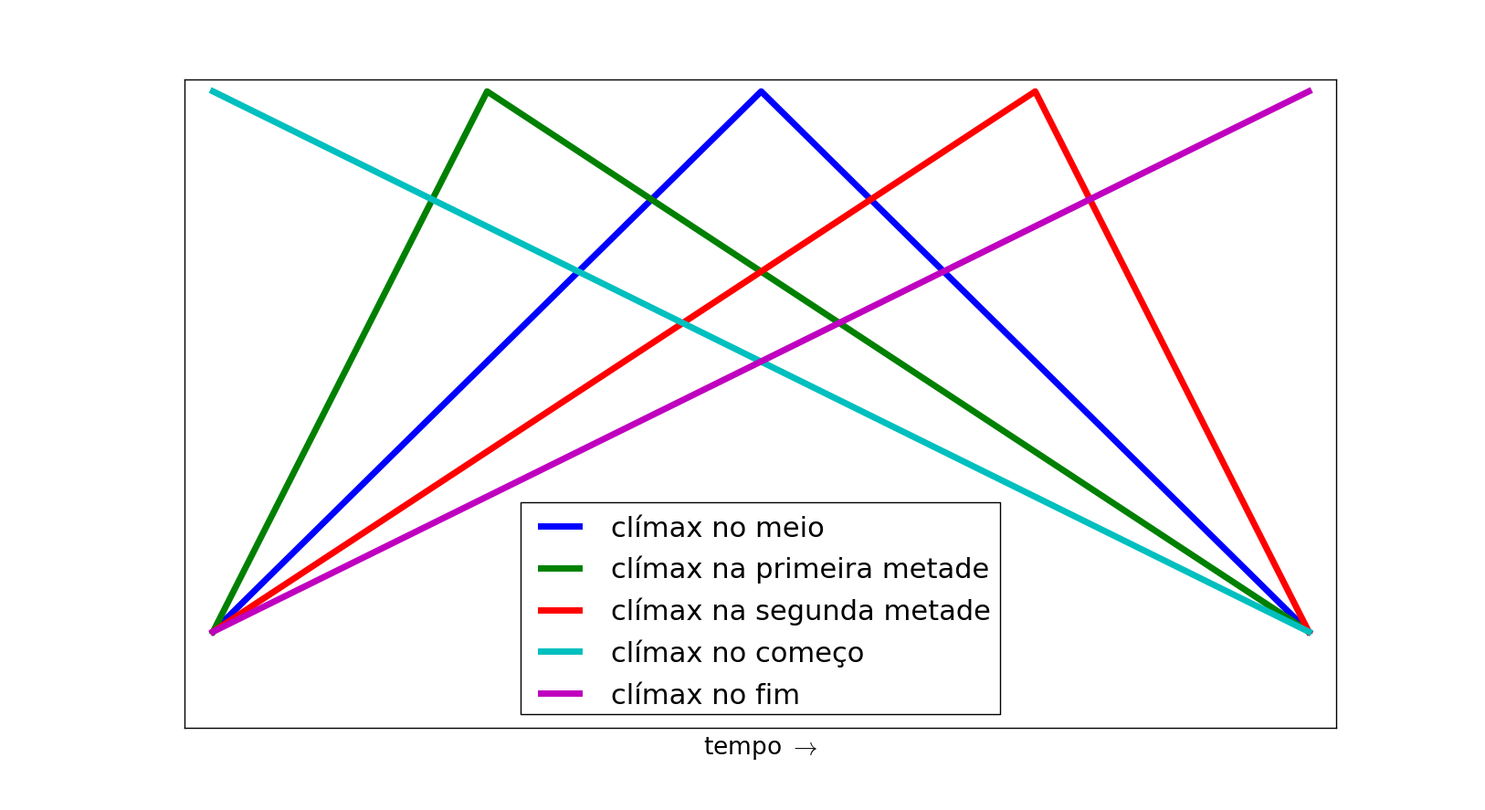
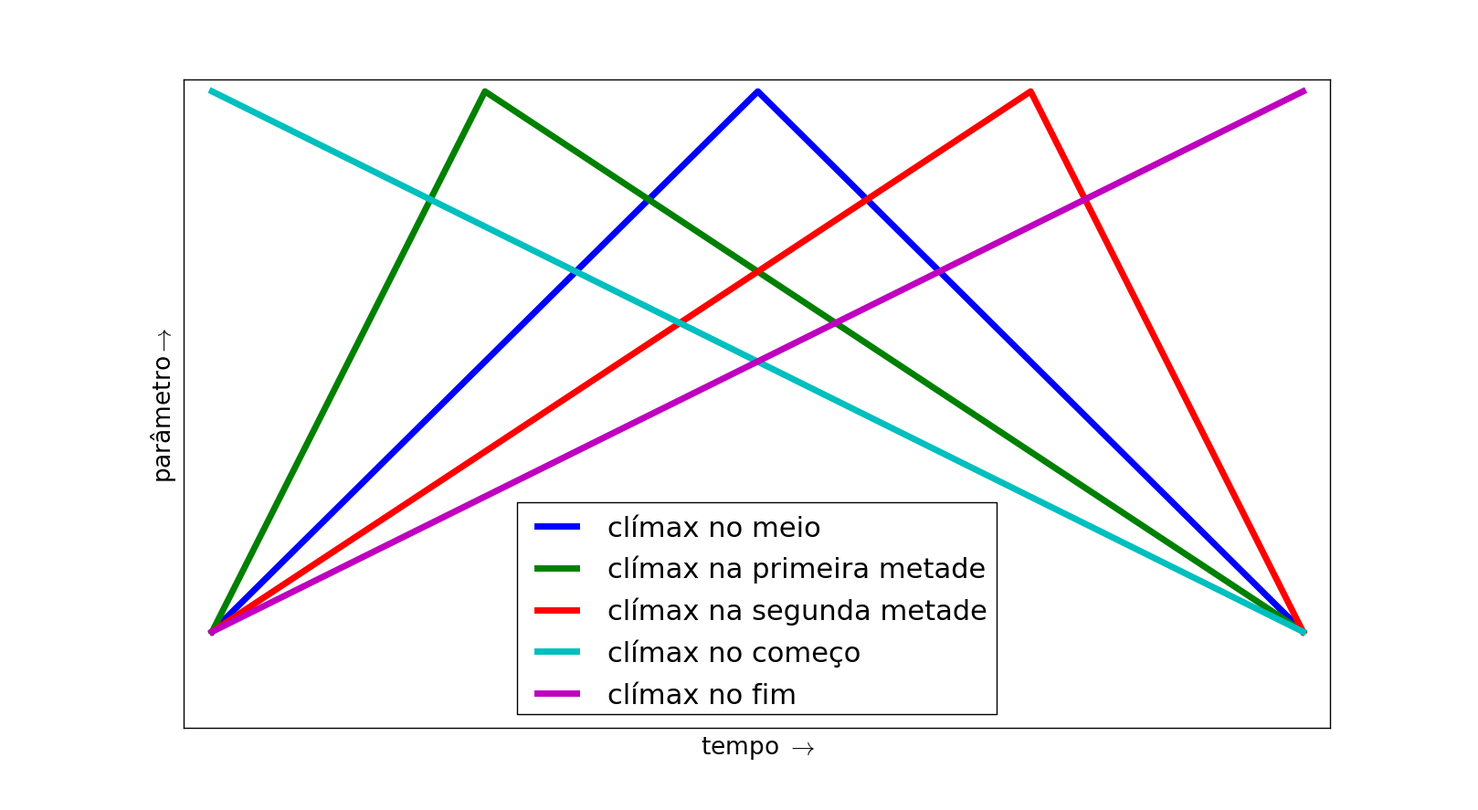
adiantada dissertacao ateh estruts ciclicas

diff --git a/devEresultados.tex b/devEresultados.tex
@@ -1501,7 +1501,7 @@ Em proporções de $\varepsilon=2^{\frac{1}{12}}$ entre as frequências das nota
 As consonâncias perfeitas são os uníssonos, as quintas e as oitavas justas (J). As consonâncias imperfeitas são
 as terças e as sextas maiores (M) e menores (m). As dissonâncias fortes são as segundas menores e sétimas maiores. As dissonâncias
 brandas são as segundas maiores e as sétimas menores. O primeiro caso especial consite na quarta justa, que é consonante perfeita
-se considerada uma inversão da quinta justa, caso contrário pode ser considerada uma dissonância ou uma consonância imperfeita. O segundo caso especial é o trítono (4aum, 5dim, tri). Este é consonante em algumas culturas, já para a música tonal, o trítono indica dominante e busca sua resolução em uma terça ou sexta e, por esta instabilidade, é considerado intervalo dissonante.}
+se considerada uma inversão da quinta justa, caso contrário pode ser considerada uma dissonância ou uma consonância imperfeita. O segundo caso especial é o trítono (4aum, 5dim, tri). Este é consonante em algumas culturas. Já para a música tonal, o trítono indica dominante e busca sua resolução em uma terça ou sexta e, por esta instabilidade, é considerado intervalo dissonante.}
 \begin{tabular}{| c | c | c | }\hline
     \multicolumn{3}{|c|}{\bf consonâncias}  \\\hline
    & notação tradicional & número de semitons \\
@@ -1521,7 +1521,7 @@ se considerada uma inversão da quinta justa, caso contrário pode ser considera
 
 A nomenclatura, com base em imposições e conveniências do sistema tonal, e de aspectos práticos da manipulação de notas, pode ser especificada assim:\cite{Roederer,Wisnick}
 \begin{itemize}
-        \item Intervalos por número de grados entre as notas: primeira (uníssono), segunda, terça, quarta, quinta, sexta, sétima, oitava. Nona, décima, décima primeira, etc, são os intervalos compostos, de uma ou mais oitavas + um intervalo dentro da oitava, que caracteriza o intervalo composto. São representados pelos dígitos numéricos: 1, 3, 5 é um uníssono, uma terça, e uma quinta.
+        \item Intervalos por número de grados entre as notas: primeira (uníssono), segunda, terça, quarta, quinta, sexta, sétima, oitava. Nona, décima, décima primeira, etc, são os intervalos compostos, de uma ou mais oitavas + um intervalo dentro da oitava, que caracteriza o intervalo composto. Os intervalos são representados pelos dígitos numéricos, e.g. 1, 3, 5 é um uníssono, uma terça e uma quinta.
         \item Qualidades de cada intervalo: as consonâncias perfeitas - i.e. uníssono, quarta, quinta e oitava - são 'justas'. As consonâncias imperfeitas - i.e. terças e sextas - e as dissonâncias - i.e. segundas e sétimas - podem ser maiores ou menores. Excessão para o trítono.
         \item A quarta justa é tida como consonante perfeita ou dissonante de acordo com o contexto e arcabouço teórico. Como regra geral, pode ser considerada consonante salvo casos em que é usada de passagem para uma quinta ou terça como resolução.
         \item O trítono é dissonante na música ocidental por caracterizar a "dominante" no sistema tonal (veja abaixo na subseção~\ref{subsec:harmonia}) e representar instabilidade. Algumas culturas entoam o intervalo como consonante.
@@ -1531,19 +1531,19 @@ A nomenclatura, com base em imposições e conveniências do sistema tonal, e de
         \item Um intervalo aumentado, acrescido de um semitom, resulta em um intervalo 'mais que aumentado' e um intervalo diminuto, descrescido de um semitom, resulta em um intervalo 'mais que diminuto'.
         \item Caso as notas soem simultaneamente, o intervalo é harmônico.
         \item Caso as notas soem em sequência no tempo, o intervalo é melódico. A ordem das notas, primeiro a nota mais grave ou a mais aguda, resulta em um intervalo ascendente ou descendente, respectivamente. 
-        \item Passando a nota mais grave para a oitava acima, ou a nota mais aguda uma oitava para baixo, o intervalo é invertido. Um intervalo, somado à sua inversão, resulta 9 (7m inverte para 2M: $7m+2M=9-$). Um intervalo maior invertido resulta em um intervalo menor e vice-versa. Um intervalo aumentado invertido resulta diminuto e vice-versa, assim como o mais que aumentado resulta em mais que diminuto e vice-versa. Um intervalo justo invertido resulta igualmente justo.
-        \item Um intervalo maior que a oitava é dito 'intervalo composto' e é classificado como o intervalo entre as mesmas notas, mas na mesma oitava. São também especificados por 7 acrescido deste intervalo: 11J é uma oitava mais uma quarta (7+4J==11J), 9M é uma oitava mais uma segunda (7+2M=9M).
+        \item Passada a nota mais grave para a oitava acima, ou a nota mais aguda uma oitava para baixo, o intervalo é invertido. Um intervalo, somado à sua inversão, resulta 9 (7m inverte para 2M: $7m+2M=9-$). Um intervalo maior invertido resulta em um intervalo menor e vice-versa. Um intervalo aumentado invertido resulta diminuto e vice-versa, assim como o mais que aumentado resulta em mais que diminuto e vice-versa. Um intervalo justo invertido resulta igualmente justo.
+        \item Um intervalo maior que a oitava é dito 'intervalo composto' e é classificado como o intervalo entre as mesmas notas, mas na mesma oitava. São também especificados por 7 acrescido deste intervalo: 11J é uma oitava mais uma quarta (7+4J==11J), 9M é uma oitava mais uma segunda maior (7+2M=9M).
 \end{itemize}
 
-Os intervalos aumentados/diminutos e mais que aumentados/diminutos são consequências do sistema tonal. Os graus da escala (veja abaixo na subseção~\ref{subsec:escalas}) são realmente notas diferentes, com funções e usos específicos. Assim, em uma escala de dó bemol maior, a tônica - primeiro grau - é dó bemol, não si, e a sensível - sétimo grau - é si bemol, não lá sustenido ou dó duplo bemol. De forma semelhante, o segundo grau de uma escala pode estar a um semitom do primeiro grau, assim como a sensível (sétimo grau a um semitom ascendente do primeiro), momento no qual há uma terça diminuta entre os dois semitons do sétimo e segundo grau da escala pois o primeiro grau está entre os dois graus próximos a ele: segundo e sensível.\cite{Lacerda}
+Os intervalos aumentados/diminutos e mais que aumentados/diminutos são consequências do sistema tonal. Os graus da escala (veja abaixo na subseção~\ref{subsec:escalas}) são realmente notas diferentes, com funções e usos específicos. Assim, em uma escala de dó bemol maior, a tônica - primeiro grau - é dó bemol, não si, e a sensível - sétimo grau - é si bemol, não lá sustenido ou dó duplo bemol. De forma semelhante, o segundo grau de uma escala pode estar a um semitom do primeiro grau, assim como a sensível (sétimo grau a um semitom ascendente do primeiro grau), momento no qual há uma terça diminuta entre os dois semitons do sétimo e segundo grau da escala pois o primeiro grau está entre os dois graus próximos a ele: segundo e sensível.\cite{Lacerda}
 
 Esta descrição resume a teoria tradicional dos intervalos musicais.\cite{Lacerda} A montagem \emph{Intervalos entre alturas} explora estes intervalos de formas isoladas e diversas. O código está no Apêndice~\ref{ap:intervalos} e disponível online com a \emph{toolbox} \massa.\cite{MASSA}
 
 
 \subsubsection{Escalas}\label{subsec:escalas}
 Uma escala é um conjunto ordenado de alturas. Usualmente, as escalas se repetem
-a cada oitava. A sequências ascendente com todas as notas da divisão da oitava em 12 intervalos iguais
-separados pela razão $\varepsilon=2^{\frac{1}{12}}$ é a escala cromática de temperamento igual. Há 5 divisões perfeitamente simétricas da oitava dentro da escala cromática. Estas divisões são consideradas
+a cada oitava. A sequência ascendente com todas as notas da divisão da oitava em 12 intervalos iguais,
+separados pela razão $\varepsilon=2^{\frac{1}{12}}$, é a escala cromática de temperamento por igual. Há 5 divisões perfeitamente simétricas da oitava dentro da escala cromática. Estas divisões são consideradas
 escalas pelos usos fáceis e peculiares que disso provém. Como inteiros aos quais $\varepsilon=2^{\frac{1}{12}}$ é elevado
 para multiplicar $f_0$, as escalas são:
 
@@ -1560,7 +1560,7 @@ para multiplicar $f_0$, as escalas são:
 Assim, a terceira nota da escala em tons inteiros com $f_0=200Hz$
 é $f_3=\varepsilon^{e_3^t} . f_0 = 2^{\frac{6}{12}} . 200 \approxeq 282.843 Hz$. Estas
 'escalas' ou padrões, geram estruturas estáveis pelas simetrias internas, e podem ser
-repetidas de forma eficiente e sustentada. Abaixo, na seção~\ref{estCic}. A montagem \emph{Cristais} expõe cada uma destas escalas tanto melódica quanto harmonicamente e seu código está no Apêndice~\ref{ap:cristais}. Como parte da \massa, este código é disponibilizado online.
+repetidas de forma eficiente e sustentada. Abaixo, na seção~\ref{estCic}, será retomado o assunto das simetrias. A montagem \emph{Cristais} expõe cada uma destas escalas tanto melódica quanto harmonicamente e seu código está no Apêndice~\ref{ap:cristais}. Como parte da \massa, este código é disponibilizado online.
 
 As escalas diatônicas:
 
@@ -1606,7 +1606,7 @@ A escala menor possui duas formas adicionais, melódica e harmônica:
 \end{split}
 \end{equation}
 
-O traçado ascendente e descendente da escala menor melódica é necessário para a presença da sensível (sétimo e último grau separado por um semitom da oitava e realça a polarização na tônica) no trajeto ascendente, o que não é necessário quando descende, retomando a forma natural. Já a escala harmônica apresenta a sensível, mas não evita o intervalo de segunda aumentada entre o sexto e sétimo graus, pois não precisa contemplar trajetória melódica, apenas apresentar a sensível tão cara ao sistema tonal (a sensível tende à tônica, afirmando-a).\cite{Harmonia}
+O traçado ascendente e descendente da escala menor melódica é necessário para a presença da sensível (sétimo e último grau, separado por um semitom da oitava, realça a polarização na tônica) no trajeto ascendente, o que não é necessário quando descende, retomando a forma natural. Já a escala harmônica apresenta a sensível, mas não evita o intervalo de segunda aumentada entre o sexto e sétimo graus, pois não precisa contemplar trajetória melódica, apenas apresentar a sensível tão cara ao sistema tonal (a sensível tende à tônica, afirmando-a).\cite{Harmonia}
 Outras escalas podem ser representadas da mesma forma, como as pentatônicas e os modos de transposição limitados de Messiaen.\cite{Messiaen}
 
 \subsubsection{Acordes}\label{subsec:acordes}
@@ -1632,7 +1632,7 @@ Orientações gerais são:
     \item Uma quinta constitui uma fundamental confirmada pelo intervalo.
     \item A terça maior ou menor aponta a qualidade maior ou menor do acorde.
     \item Todo trítono, especialmente se formado entre uma terça maior e uma sétima menor, tende a resolver em uma terça ou uma sexta.
-    \item Na repetição, a ordem de preferência é: a fundamental, a quinta, a terça e a sétima.
+    \item Evita-se a duplicação de nota. Na necessidade de duplicação, a ordem de preferência é: a fundamental, a quinta, a terça e a sétima.
     \item Pode-se formar acordes com notas diferentes das triádicas, especialmente se dentro de alguma lógica recorrente ou encadeamento musical que justifique as notas diferentes.
     \item Acordes formados por sucessões de intervalos diferentes da terças, como as quartas ou as segundas, são recorrentes dentre composições de tonalismo avançado ou experimentais.
     \item A repetição de sucessões de acordes (ou suas características) fixa uma trajetória pela recorrência e permite a introdução de formações exóticas sem que haja incoerência.
@@ -1641,7 +1641,7 @@ Orientações gerais são:
 
 \subsection{Harmonias atonal, tonal, expansão e modulação}\label{subsec:harmonia}
 \subsubsection{Harmonia atonal}
-Omitir os encadeamentos básicos do sistema tonal é a chave para a obtenção de 
+A omissão dos encadeamentos básicos do sistema tonal é chave para a obtenção de 
 harmonias modal e atonal. No caso desta ausência de estruturas tonais mínimas,
 se as notas coincidirem com alguma escala diatônica (veja as equações ~\ref{eq:escalas})
 ou forem em número pequeno, pode-se dizer que a
@@ -1649,7 +1649,7 @@ harmonia é modal. Caso encadeamentos tonais básicos estejam ausentes, as notas
 com alguma das escalas diatônicas e forem diversas e dissonantes (com relação às outras notas) o suficiente para evitar redução por
 polarizações, a harmonia é atonal.
 Nesta classificação, a harmonia modal não é tonal e não é atonal.
-A harmonia modal está reduzida à incidência de notas dentro de escalas diatônicas.
+A harmonia modal está reduzida à incidência de notas dentro de escalas diatônicas (ou simplificações) e à ausência de estruturas tonais.
 Pode-se perceber, pelo conceito, que a harmonia atonal é difícil de ser realizada.\cite{harmEXT}
 
 De fato, as técnicas de música atonal
@@ -1662,9 +1662,9 @@ A utilização de
 intervalos dissonantes, especialmente trítonos sem resoluções, nonas, segundas e sétimas, reforça
 a ausência de tonalidade. Neste contexto, para criação da peça, pode-se:
 \begin{itemize}
-    \item Repetir notas, como artifício de sua incidência anterior, não adiciona informação relevante.
-    \item Soar notas adjacentes ao mesmo tempo, em bloco.
-    \item Apresentar durações livremente, desde que respeitada ordem de aparição das notas.
+    \item Repetir notas. Ao considerar a repetição imediata um prolongamento da incidência anterior, notas iguais, sem outras notas entre elas, não adicionam informação relevante.
+    \item Soar notas adjacentes ao mesmo tempo, formando intervalos harmônicos e acordes.
+    \item Apresentar durações livremente, desde que respeitada a ordem de aparição das notas.
     \item Para variação, além dos recursos de ampliação, transposição e translação, são usados o inverso, o retrógrado e o retrógrado do inverso. Veja nas subseções~\ref{subsec:motivos} e~\ref{subsec:usosmusicais3} para maiores detalhes.
     \item Variações de intrumentação, articulação, espacialização e outras possibilidades de apresentação da estrutura de notas.
 \end{itemize}
@@ -1679,25 +1679,25 @@ propositais entre técnicas tonais e atonais.
 No século XX, músicas rítmicas
 e com ênfase em sonoridades/timbres ampliaram 
 as concepções de tonalidade e harmonia. Ainda assim, a harmonia tonal tem forte presença
-nas vertentes artísticas e comerciais. O próprio dodecafonismo considera-se de natureza
-tonal pois consiste na negação de suas características de polarização.
+nas vertentes artísticas e comerciais. Considera-se o próprio dodecafonismo de natureza
+tonal pois consiste na negação das características tonais de polarização.
 
 Na música tonal ou modal, acordes, como os listados nas equações~\ref{triades}, constituídos com a fundamental em cada
-grau de escalas especificadas nas equações~\ref{eq:escalas}, formam os pilares do campo harmônico.
+grau de uma escala, como das equações~\ref{eq:escalas}, formam os pilares do campo harmônico.
 A observação de progressões incidentes de acordes e regras para encadeamentos é o objeto de estudo da harmonia musical.
 Mesmo uma melodia monofônica gera campos harmônicos e pode-se observar acordes sugeridos por cada passagem.
 
 
 
 Na 'harmonia tonal tradicional',
-a escala pode ter como tônica (primeiro grau da escala) qualquer nota e pode ser maior (com as mesmas notas do modo jônico) ou menor (as notas do eólico constituem a escala "menor natural" e esta possui versões harmônica e melódica, veja a equação~\ref{eq:escalasMenores}. A escala escolhida é
+a escala pode ter como tônica (primeiro grau da escala) qualquer nota e pode ser maior (com as mesmas notas do modo jônico) ou menor (as notas do eólico constituem a escala "menor natural" e esta possui versões harmônica e melódica, veja a equação~\ref{eq:escalasMenores}). A escala escolhida é
 base para tríades, cada uma com a fundamental em um grau 
 da escala: $\hat{1},\hat{2},\hat{3},\hat{4},\hat{5},\hat{6},\hat{7}$. Para a formação do acorde, são consideradas a terceira nota e a quinta nota acima da fundamental, considerando a própria nota como a primeira e utilizando as notas da escala.
 Pode-se anotar $\hat{1},\hat{3},\hat{5}$ para o acorde do primeiro grau, formado pelo primeiro grau da escala e central para uma música tonal. Secundários são os acordes do quinto grau $\hat{5},\hat{7},\hat{2}$ ($\hat{7}$ sustenido no caso da escala menor) e do quarto grau $\hat{4},\hat{6},\hat{1}$. Depois são considerados os outros graus. A harmonia tradicional consiste em convenções e técnicas estilísticas de encadeamento destes acordes, formados em cada grau da escala.\cite{Harmonia}
 
 A 'harmonia funcional' atribui funções a estes três acordes centrais e busca compreender seus usos através destas funções. O acorde formado sobre o primeiro grau é o acorde de tônica (T ou t se tônica maior ou menor) e tem a função de manter um centro, um "chão" na música. O acorde formado sobre o quinto grau é a dominante (D, a dominante é sempre maior) e tem a função de tender à tônica, direcionar a música para ela. A tríade formada sobre o quarto grau é a subdominante (S ou s se subdominante maior ou menor) e tem a função de distanciar a música da tônica. O sistema se baseia em afirmar a tônica através de encadeamentos tônica-dominante-tônica expandidos com outros acordes das formas mais diversas.
 
-A estes três acordes, são associadas as outras tríades. Na escala maior, a associada relativa (tônica relativa Tr, subdominante relativa Sr e dominante relativa Dr) é a tríade formada uma terça abaixo e a associada anti-relativa (tônica anti-relativa Ta, subdominante anti-relativa Sa e a dominante anti-relativa Da) é a tríade formada na terça acima. Na escala menor ocorre o mesmo, mas a tríade a uma terça abaixo é chamada anti-relativa (tA, sA) e a tríade a uma terça acima é chamada de relativa (tR, sR). As exatas funções e efeitos musicais destes acordes é motivo de bastante controvérsia. A tabela~\ref{tab:harmonia} mostra a relação entre as tríades formadas em cada grau da escala.
+A estes três acordes, são associadas as outras tríades. Na escala maior, a associada relativa (tônica relativa Tr, subdominante relativa Sr e dominante relativa Dr) é a tríade formada uma terça abaixo e a associada anti-relativa (tônica anti-relativa Ta, subdominante anti-relativa Sa e a dominante anti-relativa Da) é a tríade formada na terça acima. Na escala menor ocorre o mesmo, mas a tríade a uma terça abaixo é chamada anti-relativa (tA, sA) e a tríade a uma terça acima é chamada de relativa (tR, sR). As exatas funções e efeitos musicais destes acordes é motivo de bastante controvérsia. A tabela~\ref{tab:harmonia} mostra a relação entre as tríades formadas em cada grau da escala maior.
 
 \begin{table}[htpq!]
 \centering
@@ -1711,25 +1711,23 @@ $\hat{2},\hat{4},\hat{6}$ & subdominante: $\hat{4},\hat{6},\hat{1}$ & $\hat{6},\
 \label{tab:harmonia}
 \end{table}
 
-A dominante anti-relativa forma um acorde menor, exigindo a alteração do quarto grau um semitom para cima $\hat{7}\#$. O acorde diminuto $\hat{7},\hat{2},\hat{4}$, geralmente é considerado uma 'dominante com sétima e sem fundamental'.\cite{Koellheuteur}
-
-Na escala menor, a relativa é a tríade iniciada uma terça acima e a anti-relativa uma terça abaixo,
-ou seja, se invertem com relação à tabela~\ref{tab:harmonia}. Outro detalhe destas tríades em modo
-menor é a alteração do $\hat{7}$ um semitom acima para que fique somente a um semitom da tônica,
-permitindo a dominante (que deve ser maior e tender à tônica). Assim, a dominante é sempre maior, tanto em escalas maior ou menor. Por este motivo, mesmo em tom menor, a dominante relativa permanece a uma terça abaixo e a antirelativa a uma terça acima.
+É necessário que a dominante anti-relativa forme um acorde menor, por isso a alteração do quarto grau um semitom para cima $\hat{7}\#$. O acorde diminuto $\hat{7},\hat{2},\hat{4}$, geralmente é considerado uma 'dominante com sétima e sem fundamental'.\cite{Koellheuteur}
+Em modo
+menor, há a alteração do $\hat{7}$ por um semitom ascendente para que haja somente um semitom de separação com a tônica,
+permitindo a dominante (que deve ser maior e tender à tônica). Assim, a dominante é sempre maior, tanto em escalas maior ou menor e, por este motivo, mesmo em tom menor, a dominante relativa permanece a uma terça abaixo e a antirelativa a uma terça acima.
 
 \subsubsection{Expansão tonal: funções individuais e medianas cromáticas}
-Cada um destes acordes pode ser confirmado e se desenvolver com uma execução de sua dominante ou subdominante individual (acorde com base na tríade formada a uma quinta acima e uma quinta abaixo respectivamente). Estas dominantes/subdominantes indiduais, por sua vez, possuem também subdominantes e dominantes individuais passíveis de uso. Assim, em uma dada tonalidade, pode ocorrer qualquer acorde, por mais distante que seja do campo harmônico e das notas da escala, desde que a ocorrência apresente um percurso coerente de dominantes e subdominantes até a tonalidade de origem.
+Cada um destes acordes pode ser confirmado e se desenvolver com uma execução de sua dominante ou subdominante individual, que é o acorde com base na tríade formada a uma quinta acima ou uma quinta abaixo respectivamente. Estas dominantes/subdominantes individuais, por sua vez, possuem também subdominantes e dominantes individuais passíveis de uso. Assim, em uma dada tonalidade, pode ocorrer qualquer acorde, por mais distante que seja do campo harmônico e das notas da escala, desde que a ocorrência apresente um percurso coerente de dominantes e subdominantes até a tonalidade de origem.
 
 As medianas, ou 'medianas cromáticas', são duas para cada acorde: a mediana cromática superior, formada com a fundamental na terça do acorde original, e a inferior, formada com a quinta na terça do acorde original. São acordes formados também a uma terça, mas com uma alteração cromática com relação ao acorde de origem. Caso haja duas alterações cromáticas, i.e. duas notas alteradas por um semitom cada com relação ao acorde original, a mediana é chamada 'duplamente cromática'. Também são duas para cada acorde: a superior, com terça na quinta do acorde original, e a inferior, com terça na fundamental da tríade original. Observe que um acorde maior possui medianas maiores e medianas duplamente cromáticas maiores. Um acorde menor possui medianas menores e medianas duplamente cromáticas menores. Esta relação entre acordes é considerada de tonalismo avançado, por vezes até de expansão e dissolução do tonalismo, e tem efeitos fortes e marcantes embora perfeitamente consonantes. As medianas foram utilizadas a partir do final do romantismo por Wagner, Lizt, Richard Strauss dentre outros e são bastante simples de serem realizadas.\cite{Harmonia,Salzer}
 
 \subsubsection{Modulação}
 A modulação é a mudança da tonalidade em que se encontra a musica. Caracteriza-se a modulação através da observação
-das tonalidades de partida e chegada e da forma de transição. As tonalidades são sempre relacionadas por quintas e suas relativas e antirelativas. São formas de efetuar a modulação:
+das tonalidades de partida e chegada e da forma de transição. As tonalidades são sempre tidas como relacionadas por quintas e suas relativas e antirelativas. São formas de efetuar a modulação:
 \begin{itemize}
     \item A transposição do discurso para a nova tonalidade, sem preparação alguma. É procedimento típico do barroco embora seja incidente em outros períodos. Por vezes chamada de modulação frasal ou modulação sem preparação.
-    \item O uso cuidadoso de uma dominante individual, e possivelmente também a subdominante individual, para afirmar a mudança da tônica e campo harmônica.
-    \item Uso de alterações cromáticas para um acorde da nova tonalidade. Chamada de modulação cromática.
+    \item O uso cuidadoso de uma dominante individual, e possivelmente também a subdominante individual, para afirmar a mudança da tônica e campo harmônico.
+    \item Uso de alterações cromáticas para atingir um acorde da nova tonalidade a partir de algum acorde da tonalidade anterior. Chamada de modulação cromática.
     \item O destaque para uma única nota, possivelmente repetida ou suspensa sem acompanhamento, comum às tonalidades de saída e chegada, constitui uma forma peculiar de introduzir o novo campo harmônico.
     \item Mudança da função, sem a modificação das notas em si, de um acorde para contemplar nova tonalidade. Procedimento chamado de enarmonia.
     \item A manutenção do centro tonal e mudança da qualidade maior para menor (ou vice-versa) da tonalidade é a modulação paralela. A tonalidade de mesma tônica e outra qualidade é chamada homônima.
@@ -1741,7 +1739,7 @@ A importância da dominante torna ela pivô natural das modulações, o que dese
 \subsection{Contraponto}\label{subsec:contraponto}
 
 A condução de linhas melódicas simultâneas, chamadas vozes,
-é matéria do campo de estudo chamado contraponto. A bibliografia
+é o contraponto. A bibliografia
 percorre formas sistemáticas de condução de vozes e desemboca em gêneros escolásticos como cânones, invenções e fugas. É possível resumir regras principais do contraponto e é dito que o próprio Beethoven - dentre outros - esboçou uma síntese deste tipo.
 
 \begin{figure}[h!]
@@ -1765,14 +1763,14 @@ ser não admitidas ou usadas seguidas
 e precedidas de consonâncias em graus conjuntos, i.e. notas vizinhas na escala.
 Os movimentos que levam a nota a uma vizinha soam mais coerentes.
 Na presença de 3 ou mais vozes,
-a importância melódica recai sobre as vozes mais aguda e mais grave, neta ordem.\cite{Fux,Tragtenberg,SchoenbergContra}
+a importância melódica recai sobre as vozes mais aguda e mais grave, nesta ordem.\cite{Fux,Tragtenberg,SchoenbergContra}
 
 Estas regras foram usadas na montagem \emph{Conta ponto}, o código está no Apêndice~\ref{ap:conta} e disponível online junto à \massa.
 
 
 \subsection{Ritmo}\label{subsec:ritmo}
-A noção rítmica é dependente de eventos separados por durações.\cite{Lacerda} Estes eventos podem ser ouvidos individualmente se separados
-por ao menos $50-63ms$. Para que a separação entre eles possa ser apreciada como duração, ela deve ser maior,
+A noção rítmica é dependente de eventos separados por durações.\cite{Lacerda} Estes eventos podem ser ouvidos individualmente se espaçados
+por ao menos $50-63ms$. Para que a separação temporal entre eles possa ser apreciada como duração, ela deve ser maior,
 por volta de $100ms$.\cite{microsound} Pode-se sumarizar 
 a transição
 de durações ouvidas como alturas para a apreciação em ritmo da seguinte forma:\cite{Alfaix, microsound}
@@ -1834,7 +1832,7 @@ A outra forma de ocorrer a divisão em 6 é através de
 uma divisão ternária que sofre então uma divisão binária, resultando em:
 uma unidade forte (subdividido em forte e fraco) e duas unidades fracas (subdivididas em forte e fraco cada).}.
 
-A acentuação em tempo fraco é o contratempo, as notas iniciadas em tempo fraco e cuja duração se prolonga sobre tempos fortes são as síncopas.
+A acentuação em tempo fraco é o contratempo, uma nota iniciada em tempo fraco e cuja duração se prolonga sobre um tempo forte é uma síncopa.
 
 As notas podem ocorrer dentro e fora destas divisões da \emph{'métrica musical'}. Nos casos mais comportados, as notas ocorrem exatamente nestas divisões, com maior incidência em ataques nos tempos fortes.
 Em casos extremos, não se pode perceber a métrica.\cite{Roederer} Variações pequenas na grade ajudam a compor a interpretação musical e diferenças entre estilos.\cite{Cook}
@@ -1855,9 +1853,9 @@ do escopo, uma música ou um conjunto coeso de músicas. Dito de outra forma: a 
 é menor do que alguns minutos ou, no máximo, poucas horas.
 
 
-Cada nível $j$ possui alguns índices $i$. Sempre que $i$ possuir três valores diferentes
-(ou múltiplo de três) índices há uma relação perfeita, 
-quando é somente múltiplo dois, quatro ou oito índices há uma relação imperfeita, como na figura~\ref{fig:pulsoSubAgl}.
+Cada nível $j$ possui alguns índices $i$. Sempre que o índice $i$ possuir três valores diferentes
+(ou múltiplo de três), há uma relação perfeita. 
+Quando $i$ possuir somente múltiplo dois, quatro ou oito valores diferentes, há uma relação imperfeita, como na figura~\ref{fig:pulsoSubAgl}.
 
 
 Qualquer unidade (nota), de uma
@@ -1889,7 +1887,7 @@ Uma música, cujos arcos não apresentam consistência entre si, pode ser compre
 A sensação de coerência provém, em grande parte, do tratamento hábil dos arcos de uma peça.
 
 Os arcos músicais são estruturas abstratas e passíveis de operações básicas. Um arco espectral, como um
-acorde, pode ser invertido, ampliado, permutado, por exemplo. Os arcos temporais, como uma melodia, um motivo, um compasso ou
+acorde, pode ser invertido, ampliado e permutado, por exemplo. Os arcos temporais, como uma melodia, um motivo, um compasso ou
 uma nota, são igualmente passíveis de variações. Lembrando que $S_j=\left\{s_j=T_i^j=\{t_i^{j}\}_0^{\Lambda_j-1}\right\}_0^{H-1}$ é uma
 sequência de $H$ eventos musicais $s_j$, cada evento com suas $\Lambda_j$ amostras $t_i^j$ (veja no início desta seção~\ref{notasMusica}), as técnicas básicas podem ser descritas assim:
 
@@ -1897,26 +1895,26 @@ sequência de $H$ eventos musicais $s_j$, cada evento com suas $\Lambda_j$ amost
     \item A translação temporal é o deslocamento $\delta$ do material para um outro instante $\Gamma'=\Gamma + \delta$ da música. É uma variação do material com modificação na localização no decorrer da música: $\left\{s_j'\right\}=\left\{s_j^{\Gamma'}\right\}=\left\{s_j^{\Gamma+\delta}\right\}$ onde $\Gamma$ é a duração entre o começo da peça (ou trecho considerado) e o primeiro evento $s_0$ da estrutura $S_j$ original. Observe que $\delta$ é o deslocamento no tempo.
     \item A dilatação ou contração temporal é a alteração da duração de cada arco por um fator $\mu\,:\; s_j'^{\Delta}=s_j^{\mu_j . \Delta}$. Possivelmente, $\mu_j=\mu$ constante.
     \item Reversão temporal consiste em gerar uma sequência com os elementos em ordem invertida da sequência original $S_j$, assim: $S_j'=\left\{s_j'\right\}_0^{H-1}=\left\{s_{(H-j-1)}\right\}_0^{H-1}$.
-    \item A translação em altura é o deslocamento $\tau$ do material para uma frequência/altura diferente $\Xi'=\Xi + \tau$ da música. É uma variação com modificação na localização em altura do material: $\left\{s_j'\right\}=\left\{s_j^{\Xi'}\right\}=\left\{s_j^{\Xi+\tau}\right\}$ onde $\Xi$ é a altura do trecho $S_j$ ou do primeiro evento $s_0$ da estrutura $S_j$ original. Observe que $\tau$ é o deslocamento em altura. Caso $\tau$ seja dado em semitons, o deslocamento em frequência é $\tau_f=f_0.2^{\frac{\tau}{12}}$ onde $f_0$ é resultado da adoção de alguma referência: $f_0=\Xi_{f_0}Hz\;\sim \Xi_0$ valor absoluto de altura. Para a frequência para qualquer valor de altura: $\Xi_f=\Xi_{f_0}.2^{\frac{\Xi-\Xi_0}{12}}$. 
+    \item A translação em altura é o deslocamento $\tau$ do material para uma altura diferente $\Xi'=\Xi + \tau$ da música. É uma variação com modificação na localização em altura do material: $\left\{s_j'\right\}=\left\{s_j^{\Xi'}\right\}=\left\{s_j^{\Xi+\tau}\right\}$ onde $\Xi$ é a altura do trecho $S_j$ ou do primeiro evento $s_0$ da estrutura $S_j$ original. Observe que $\tau$ é o deslocamento em altura. Caso $\tau$ seja dado em semitons, o deslocamento em frequência é $\tau_f=f_0.2^{\frac{\tau}{12}}$ onde $f_0$ é resultado da adoção de alguma referência: $f_0=\Xi_{f_0}Hz\;\sim \Xi_0$ valor absoluto de altura. Para a frequência para qualquer valor de altura: $\Xi_f=\Xi_{f_0}.2^{\frac{\Xi-\Xi_0}{12}}$. 
         Para altura de qualquer valor de frequência: $\Xi=\Xi_0 +12 . \log_2\left(\frac{\Xi_f}{\Xi_{f_0}}\right)$.  No protocolo MIDI, $\Xi_{f_0}=55Hz$ enquanto $\Xi_0=33$ de altura marca o lá 1, outro ponto de referência é o $\Xi_{f_0}=440Hz$ que corresponde a $\Xi_0=69$. A diferença da unidade equivale ao semitom. Não se pode dizer que a unidade é o semitom pois $\Xi=1$ não é um semitom, é uma nota de frequência audível como ritmo, com menos de 9 ocorrências por segundo (veja a tabela~\ref{tab:duracoes}).
     \item A inversão intervalar é a inversão do sentido dos intervalos percorridos pelo material. A inversão é estrita se o número de semitons esteja sendo usado como referência para a operação: $S_j'=\{s_j'\}_0^{H-1}=\left\{s_j^{-\varepsilon_j . f_0}\right\}$, onde $\varepsilon_j$ é o fator entre a frequência do evento $s_j$ e a frequência de $s_0$. A inversão é tonal caso as distâncias sejam consideradas em termos de números de graus da escala $E_k$: $S_j'=\{s_j'\}_0^{H-1}=\left\{s_j^{-\varepsilon^{\left(e_{\left(j_e\right)}\right)} . f_0}\right\}_0^{H-1}$ onde $j_e=e_{j}^{inv}$ é o índice $k=j_e$ em $E_k$ da nota do evento $s_j$.
     \item Rotação de elementos musicais é a transferência do último elemento para a posição do primeiro e o deslocamento deste ao penúltimo uma posição para frente. Pode-se definir a rotação de $\tilde{n}$ posições por $S'_n=S_{(n+\tilde{n})\%H}$. Caso $\tilde{n}<0$, basta usar $\tilde{n}'=H-\tilde{n}$. É razoável associar $\tilde{n}>0$ com a rotação horária e $\tilde{n}<0$ com a rotação anti-horária. Mais sobre rotações na subseção~\ref{estCic}.
-    \item A inserção e remoção de materiais na estrutura $S_j$ pode ser ornamental ou estruturante: $S_j'=\{s_j'\}=\{s_j \text{ se condição A, caso contrário } r_j\}$, para qualquer material musical $r_j$, incluindo o instante vazio. Elementos de $R_j$ podem ser inseridos no começo, como uma prefixo de $S_j$, ao final, como um sufixo, ou no meio, dividindo $S_j$ ou fazendo dele o prefixo e o sufixo. Os dois materiais podem se misturar das formas mais diversas.
+    \item A inserção e remoção de materiais na estrutura $S_j$ pode ser ornamental ou estruturante: $S_j'=\{s_j'\}=\{s_j \text{ se condição A, caso contrário } r_j\}$, para qualquer material musical $r_j$, incluindo o instante vazio. Elementos de $R_j$ podem ser inseridos no começo, como um prefixo de $S_j$, ao final, como um sufixo, ou no meio, dividindo $S_j$ ou fazendo dele o prefixo e o sufixo. Os dois materiais podem se misturar das formas mais diversas.
     \item Modificações de articulação, instrumentação e espacialização $s_j'=s_j^{*_j}$, com $*_j$ a nova característica incorporada pelo elemento $s_j'$.
-    \item Acompanhamento. Tanto a instrumentação quanto as linhas melódicas que presentes na ocorrência de $S_j$ podem sofrer modificações e ser considerada uma variação de $S_j$ em si.
+    \item Acompanhamento. Tanto a instrumentação quanto as linhas melódicas presentes na ocorrência de $S_j$ podem sofrer modificações e ser considerada uma variação de $S_j$ em si.
 \end{itemize}
 
 Com estes procedimentos, outros são derivados: o retrógrado do inverso, uma contração temporal com um sufixo externo, etc.
-A estruturas musicais ressoam no sistema cognitivo devido à própria natureza do pensamento. Em suas várias facetas,
+As estruturas musicais ressoam no sistema cognitivo devido à própria natureza do pensamento. Em suas várias facetas,
 uma ideia lida com o mesmo número de elementos e aspectos conectivos entre eles.
 A música, através de sintonia com estas estruturas mentais, suscita impressões. É, assim, desencadeado
 todo um processo de ressonância mental e neurológica responsável pelos sentimentos, lembranças e imaginações
 típicas de uma audição musical atenta. Esta atividade cortical contribui para a terapia
 músical, conhecida pela utilidade em casos de depressão e dano neurológico. Considera-se que as regiões do cérebro responsáveis pelo processamento auditivo são também usadas para outras atividades, incluindo linguísticas e matemáticas.\cite{Sacks,Roederer}
 
-Como princípios gerais que orientam a criação de novos materiais musicais, utiliza-se estruturas paradigmáticas. Uma delas, central, é o dipolo tensão/relaxamento. Relaciona-se com este dipolo, cada outro dipolo tradicional: tônica/dominante, repetição/variação, consonância/dissonância, coerência/rompimento, simetria/assimetria, chegada/saída, perto/longe, parado/em movimento, etc. Já as relações ternárias tendem a se relacionar com o circular e a unificação.
-A subseção seguinte é dedicada aos arcos direcionais e, 
-no seguinte, os arcos cíclicos.
+As estruturas paradigmáticas orientam a criação de novos materiais musicais. Uma delas, central, é o dipolo tensão/relaxamento. Relaciona-se com este dipolo, cada outro dipolo tradicional: tônica/dominante, repetição/variação, consonância/dissonância, coerência/rompimento, simetria/assimetria, igualdade/diferença, chegada/saída, perto/longe, parado/em movimento, etc. Já as relações ternárias tendem a se relacionar com o circular e a unificação. A lúcida comunhão ternária, 'modus perfectus', se opõe ao dicotômico passional, 'modus imperfectus'.
+A seguir está uma exposição  dedicada aos arcos direcionais 
+e cíclicos.
 
 \subsection{Estruturas direcionais}\label{subsec:dir}
 
@@ -1935,22 +1933,22 @@ outra que, de forma paradigmática, volta do ápice à região de partida. Este 
 
 Seja $S_i=\{s_i\}_0^{H-1}$ uma sequência crescente. A sequência 
 $R_i=\{r_i\}_0^{2H -2}=\left\{s_{(H-1-|H-1-i|)}\right\}_0^{2H-2}$ 
-é uma sequência que apresenta simetria especular perfeita, i.e. a segunda metade é uma versão espelhada da primeira. Segundo conceitos musicais, o clímax está exatamente no meio da sequência. Pode-se modificar isso com a substituição por sequências de tamanhos diferentes. Toda a teoria matemática de sequências, já estabelecida e ensinada corriqueiramente em cursos de cálculo III, pode ser utilizada para geração destes arcos.\cite{Guidorizzo,Schoenberg} 
-Teoricamente, estas sequências aplicadas desta forma
-a qualquer característica dos eventos musicais produz arcos,
+é uma sequência que apresenta simetria especular perfeita, i.e. a segunda metade é uma versão espelhada da primeira. Segundo conceitos musicais, o clímax está exatamente no meio da sequência. Pode-se modificar isso com o uso de sequências de tamanhos diferentes. Toda a teoria matemática de sequências, já estabelecida e ensinada corriqueiramente em cursos de cálculo III, pode ser utilizada para geração destes arcos.\cite{Guidorizzo,Schoenberg} 
+Teoricamente, estas sequências, aplicadas desta forma
+a qualquer característica dos eventos musicais, produzem arcos,
 pois implicam no afastamento e retorno de uma parametrização inicial. 
 Assim, é possível para uma mesma sequência de eventos possuir um número de arcos distintos, com tamanhos e clímax diferentes. Este é um recurso
 interessante e útil e a correlação dos arcos resulta na coerência da escuta.\cite{Salzer}
 
-Na prática, e historicamente, tem especial importância a razão áurea e, por isso, à série de Fibonacci. A série de lucas é uma generalização da série de Fibonacci e pode ser compreendida facilmente. Dados dois números quaisquer $x_0$ e $x_1$, obtem-se a série de Lucas: $x_n=x_{n-1}+x_{n-2}$. Quanto maior for $n$, mais a razão $\frac{x_{n}}{x_{n_1}}$ se aproxima da razão áurea: $1.61803398875...$. A série converge rápido mesmo para valores iniciais bem discrepantes. Seja $x_0=1$ e $x_1=100$, e $y_n=\frac{x_n}{x_{n+1}}$ uma sequência auxiliar. O erro em percentagem dos primeiros valores desta sequência com relação à proporção áurea é, aproximadamente, $\{ e_n \} =\left\{100\frac{y_n}{1.61803398875}-100 \right\}_1^{10}=\{6080.33, -37.57, 23, -7.14, 2.937, -1.09, 0.42, -0.1601, 0.06125, -0.02338\}$. A sequência de Fibonacci apresenta aproximadamente a mesma progressão de erros, mas começa já no segundo passo pois $\frac{1}{1}\approx\frac{101}{100}$.
+Na prática, e historicamente, tem especial importância a razão áurea e, por isso, a sequência de Fibonacci. A sequência de Lucas permite uma generalização da sequência de Fibonacci que pode ser compreendida facilmente. Dados dois números quaisquer $x_0$ e $x_1$, obtem-se a sequência de Lucas: $x_n=x_{n-1}+x_{n-2}$. Quanto maior for $n$, mais a razão $\frac{x_{n}}{x_{n_1}}$ se aproxima da razão áurea: $1.61803398875...$. A sequência converge rápido mesmo para valores iniciais bem discrepantes. Seja $x_0=1$ e $x_1=100$, e $y_n=\frac{x_n}{x_{n+1}}$ uma sequência auxiliar. O erro em percentagem dos primeiros valores desta sequência com relação à proporção áurea é, aproximadamente, $\{ e_n \} =\left\{100\frac{y_n}{1.61803398875}-100 \right\}_1^{10}=\{6080.33, -37.57, 23, -7.14, 2.937, -1.09, 0.42, -0.1601, 0.06125, -0.02338\}$. A sequência de Fibonacci apresenta aproximadamente a mesma progressão de erros, mas começa já no segundo passo pois $\frac{1}{1}\approx\frac{101}{100}$.
 
 A montagem sonora \emph{Dirracional} expõe estes arcos em estruturas direcionais. Seu código está no Apêndice~\ref{ap:dirracional} e disponível online como parte da \massa.\cite{MASSA}
 
 \subsection{Estruturas cíclicas}\label{estCic}
 
 O entendimento filosófico de que o pensamento humano é fundamentado
-na percepção de semelhanças e diferenças dentre os estímulos
-e objetos coloca
+na percepção de semelhanças e diferenças, dentre os estímulos
+e objetos, coloca
 as simetrias no cerne do processo cognitivo.\cite{Deleuze}
 Matematicamente,
 as simetrias são grupos algébricos e um grupo finito
@@ -1976,7 +1974,7 @@ Qualquer conjunto de permutações pode ser utilizado como gerador de grupos alg
 
 Da primeira propriedade conclui-se que toda permutação pode ser operada com outra permutação. De fato, pode-se aplicar uma permutação $p_1$, depois outra $p_2$ e, se comparadas as ordenações inicial e final, há uma permutação $p_3$.
 
-Todo elemento $p$ operado consigo mesmo um número suficiente de vezes $n$ atinge o elemento neutro $p^n=e$, caso contrário o grupo seria infinito (gerado por $p$). O menor $n\;:\;p^n=e$ é chamado de ordem do elemento. Assim, uma permutação finita $p$ aplicada sucessivamente atinge a ordenação inicial dos elementos, formando um ciclo. Este ciclo, se utilizado para parametros de notas musicais, implica em um arco musical cíclico.
+Todo elemento $p$ operado consigo mesmo um número suficiente de vezes $n$ atinge o elemento neutro $p^n=e$, caso contrário o grupo seria infinito (gerado por $p$). O menor $n\;:\;p^n=e$ é chamado de ordem do elemento. Assim, uma permutação finita $p$ aplicada sucessivamente atinge a ordenação inicial dos elementos, formando um ciclo. Este ciclo, se utilizado para parâmetros de notas musicais, implica em um arco musical cíclico.
 
 Estes arcos podem ser efetuados pelo uso conjunto de diferentes permutações. Como exemplo
 histórico, a tradição chamada \emph{change ringing} concebe música através de sinos tocados um após o outro e então tocados novamente, mas em uma ordem diferente. Este processo se repete até que se atinja a ordenação inicial. O conjunto de ordenações diferentes percorridas é um \emph{peal}. A tabela~\ref{tab:change} representa um \emph{peal} tradicional de 3 sinos (1, 2 e 3) que explora todas as suas ordenações. Cada linha apresenta uma ordenação dos sinos a ser tocada. As permutações estão entre as linhas.

diff --git a/pretextual.tex b/pretextual.tex
@@ -185,6 +185,7 @@
         \item[$V_{dB}$] volume em decibels.
         \item[$\Rightarrow$] então.
         \item[$\therefore$] portanto.
+        \item[$:$] tal que.
         \item[$\forall$] para todo.
         \item[$\approx$] aproximadamente.
         \item[$\equiv$] equivalente.

diff --git a/scripts/climaxMel.py b/scripts/climaxMel.py
@@ -22,6 +22,7 @@ p.xticks((),())
 p.yticks((),())
 
 p.xlabel(r"tempo $\rightarrow$", fontsize=19)
+p.ylabel(u"parâmetro"+r"$\rightarrow$", fontsize=19)
 
 p.show()
 
